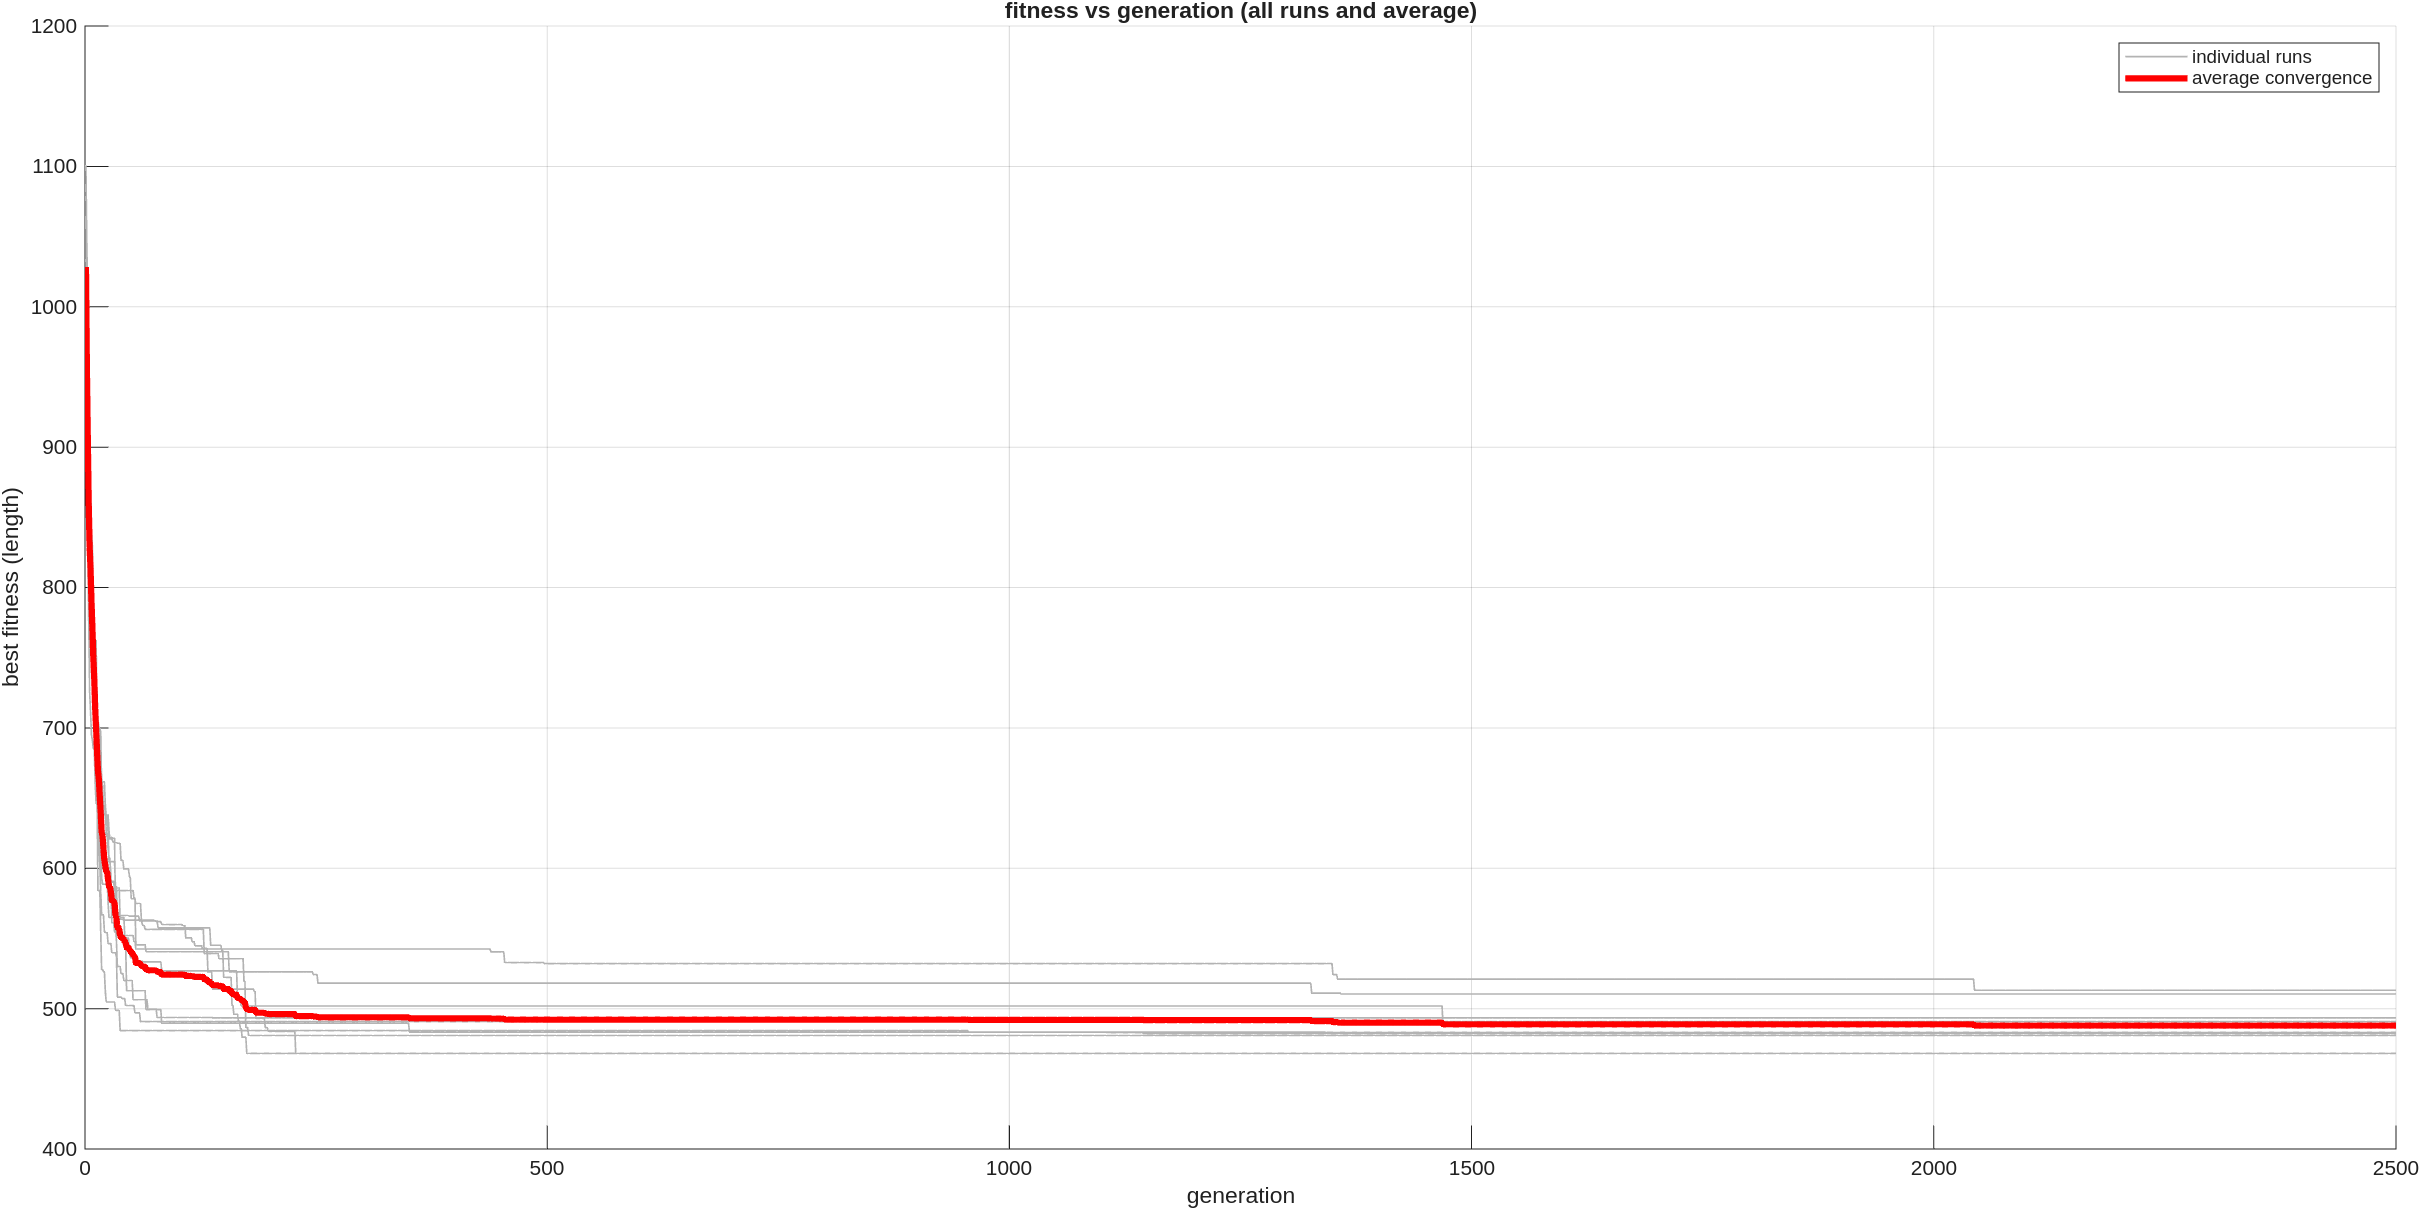
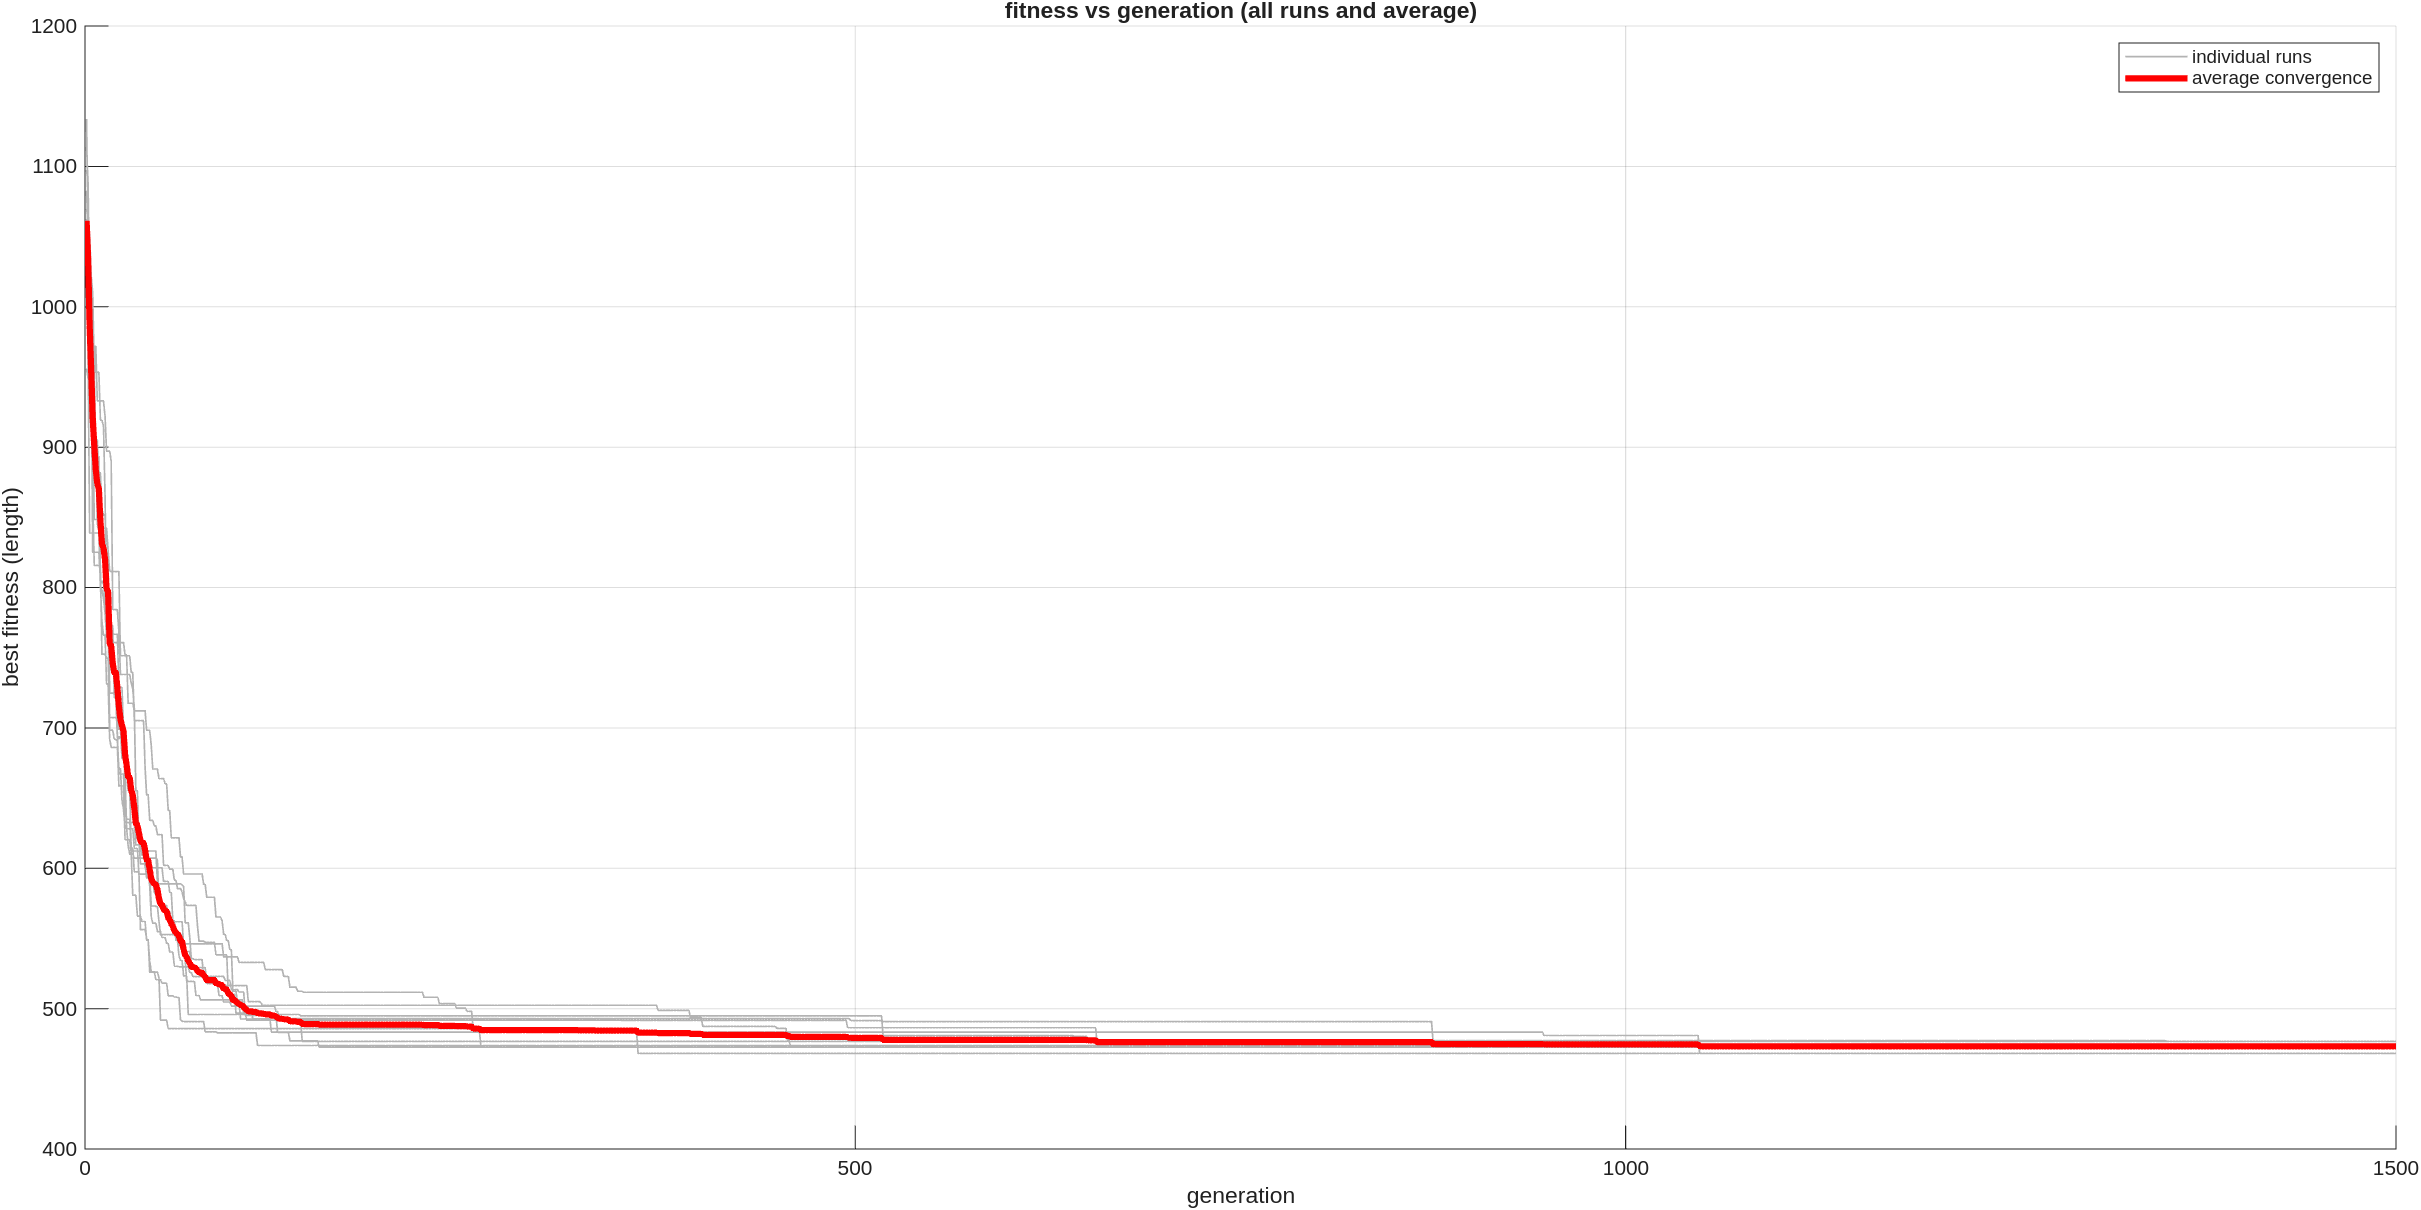
update: umint cv3(4)

diff --git a/umint/cv_3/genetic/cv_3.m b/umint/cv_3/genetic/cv_3.m
@@ -10,8 +10,8 @@ B = [
 
 popSize = 100;      
 elitismCount = 5; 
-mutationRate = 0.12;
-numGenerations = 2500;
+mutationRate = 0.1;
+numGenerations = 1500;
 numRuns = 10;
 
 allRunsFitness = zeros(numGenerations, numRuns);
@@ -39,12 +39,12 @@ for runs = 1:numRuns
         BestFit = BestFit(:);
     
         remainingCount = popSize - elitismCount;
-        [SelectedPop, ~] = selsus(Pop, fitnessValues, remainingCount);
+        [SelectedPop, ~] = seltourn(Pop, fitnessValues, remainingCount);
     
         NewPop = crosord(SelectedPop, 0); 
         NewPop(:, 2:end-1) = swappart(NewPop(:, 2:end-1), mutationRate);
-        NewPop(:, 2:end-1) = swapgen(NewPop(:, 2:end-1), mutationRate);
-        NewPop(:, 2:end-1) = invord(NewPop(:, 2:end-1), mutationRate);
+        NewPop(:, 2:end-1) = swapgen(NewPop(:, 2:end-1), 0.01);
+        NewPop(:, 2:end-1) = invord(NewPop(:, 2:end-1), 0.3);
 
         NewFit = fitness_cv_3(NewPop, B);
     
@@ -69,7 +69,7 @@ disp(B(globalBestRoute, :));
 figure('Color', 'w');
 hold on;
 avgFitness = mean(allRunsFitness, 2);
-hRuns = plot(allRunsFitness, 'Color', [0.7 0.7 0.7], 'LineWidth', 0.8);
+hRuns = plot(allRunsFitness, 'Color', [0.7 0.7 0.7], 'LineWidth', 1.8);
 hAvg = plot(avgFitness, 'r', 'LineWidth', 3);
 xlabel('generation');
 ylabel('best fitness (length)');

diff --git a/umint/cv_3/genetic/calculate_fitness.m b/umint/cv_3/genetic/calculate_fitness.m
@@ -1,0 +1,10 @@
+function fitness = calculate_fitness(pop, coords)
+    [rows, ~] = size(pop);
+    fitness = zeros(rows, 1);
+    for i = 1:rows
+        route = coords(pop(i, :), :);
+        diffs = diff(route);
+        dists = sqrt(sum(diffs.^2, 2));
+        fitness(i) = sum(dists);
+    end
+end

diff --git a/umint/cv_3/genetic/genpop.m b/umint/cv_3/genetic/genpop.m
@@ -1,0 +1,8 @@
+% -------- vlastne funkcie --------
+function pop = genpop(popsize, gensize)
+    pop = zeros(popsize, gensize);
+    for i = 1:popsize
+        mid = randperm(gensize - 2) + 1; % 2..gensize-1
+        pop(i, :) = [1, mid, gensize];   % 1 a gensize
+    end
+end
